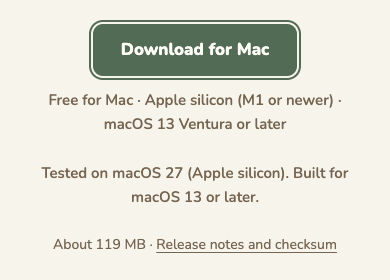
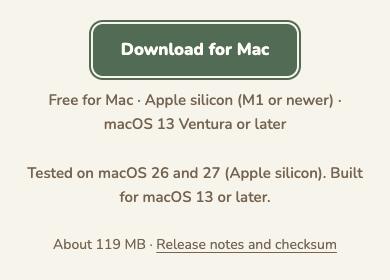
Tested-on note: macOS 26 and 27 (owner-reported 26.2 run)

Changed region(s): [[0.0615, 0.6, 0.9538, 0.6571], [0.3077, 0.6857, 0.7077, 0.7429]]

diff --git a/index.html b/index.html
@@ -66,7 +66,7 @@
           <div class="cta">
             <a class="button button--primary" href="https://github.com/Prasanna-KS-85/little-steps-site/releases/latest/download/Little-Steps.dmg" data-download>Download for Mac</a>
             <p class="cta-note">Free for Mac · Apple silicon (M1 or newer) · macOS&nbsp;13 Ventura or later</p>
-            <p class="cta-note">Tested on macOS 27 (Apple silicon). Built for macOS 13 or later.</p>
+            <p class="cta-note">Tested on macOS 26 and 27 (Apple silicon). Built for macOS 13 or later.</p>
             <p class="cta-fine">About 119 MB · <a href="https://github.com/Prasanna-KS-85/little-steps-site/releases/tag/release-1.0.0" rel="noopener">Release notes and checksum</a></p>
           </div>
           <p class="maker-note">

diff --git a/docs/checks.md b/docs/checks.md
@@ -255,3 +255,21 @@ Open Graph or meta text mentioned it.
 - Not run: clicking Download and opening the downloaded `.dmg` (headless Chrome would save a 119 MB file; the
   link was checked with curl and by its href instead), the `'soon'` fallback in the script (only read, not
   executed), Safari, Firefox, a real phone, and the hosted site (checked on the local server only).
+
+## Tested-on line: macOS 26 and 27 (28 November 2026)
+
+**Owner-reported, not run here.** On 2026-11-28 the owner installed and ran the live download on a second
+Apple silicon MacBook Air with macOS 26.2 (Tahoe), and the checksum matched
[1 lines of base64/hex data omitted]
+
+- Hero note now reads "Tested on macOS 26 and 27 (Apple silicon). Built for macOS 13 or later." (`index.html`).
+  The release-1.0.0 notes carry the same line; only that line changed, the asset is untouched (one asset,
+  119,034,251 bytes).
+- Left as is on purpose: the FAQ privacy sentence ("…watched the app's connections for several minutes on
+  macOS 27"), `docs/privacy-section.html` and `docs/site-open-items.md`, because that connection check was
+  done on macOS 27 only.
+- Nothing in `config.js`, the meta description or the Open Graph text mentions the tested-on version.
+- Page check run here (`tools/download-check.mjs`, local server, headless Chrome, 390 and 1440 px): no console
+  errors or failed requests, zero requests outside the page's own origin, no horizontal scroll, both Download
+  hrefs unchanged. The hero screenshots `docs/screens/download-hero-{390,1440}.png` (and the focus and no-JS
+  ones the script also rewrites) were retaken and show the new note.
